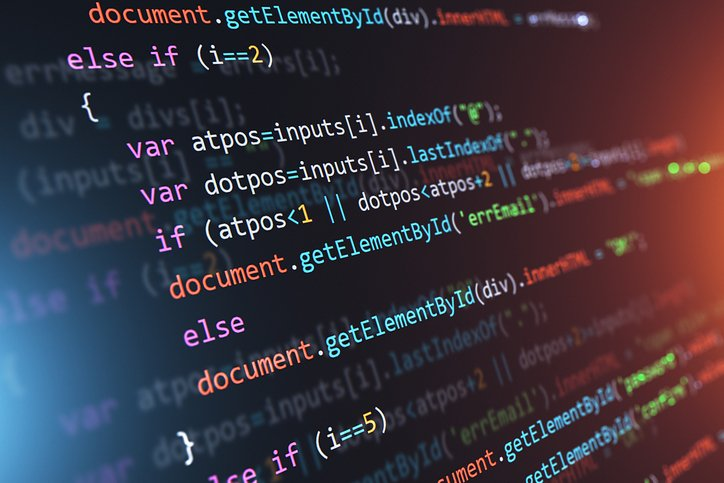
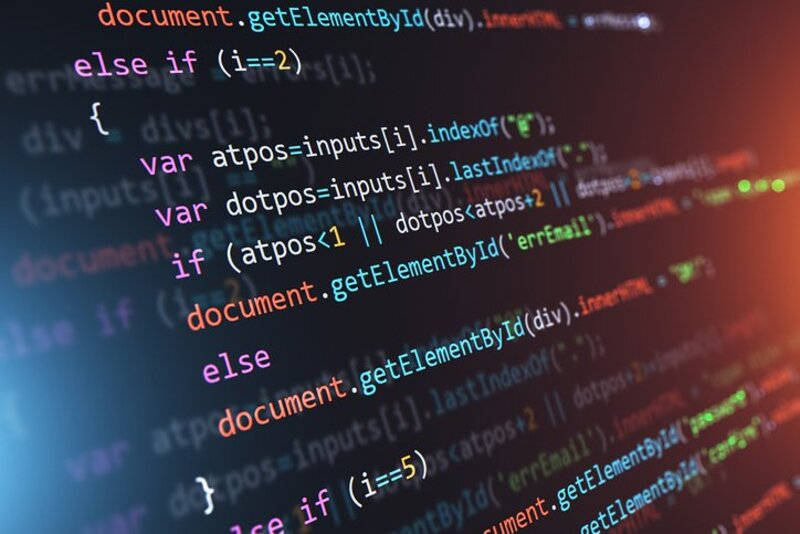
Redimensionado de imagenes

diff --git a/index.html b/index.html
@@ -694,7 +694,7 @@
           <div class="info-box">
             <i class="bx bx-map"></i>
             <h3>My Address</h3>
-            <p>A108 Adam Street, New York, NY 535022</p>
+            <p>Sevilla, España</p>
           </div>
         </div>
 
@@ -716,14 +716,14 @@
           <div class="info-box">
             <i class="bx bx-envelope"></i>
             <h3>Email Me</h3>
-            <p>contact@example.com</p>
+            <p>juanpablopalomares.20@campuscamara.es</p>
           </div>
         </div>
         <div class="col-md-6 mt-4 d-flex align-items-stretch">
           <div class="info-box">
             <i class="bx bx-phone-call"></i>
             <h3>Call Me</h3>
-            <p>+1 5589 55488 55</p>
+            <p>77777777775</p>
           </div>
         </div>
       </div>
